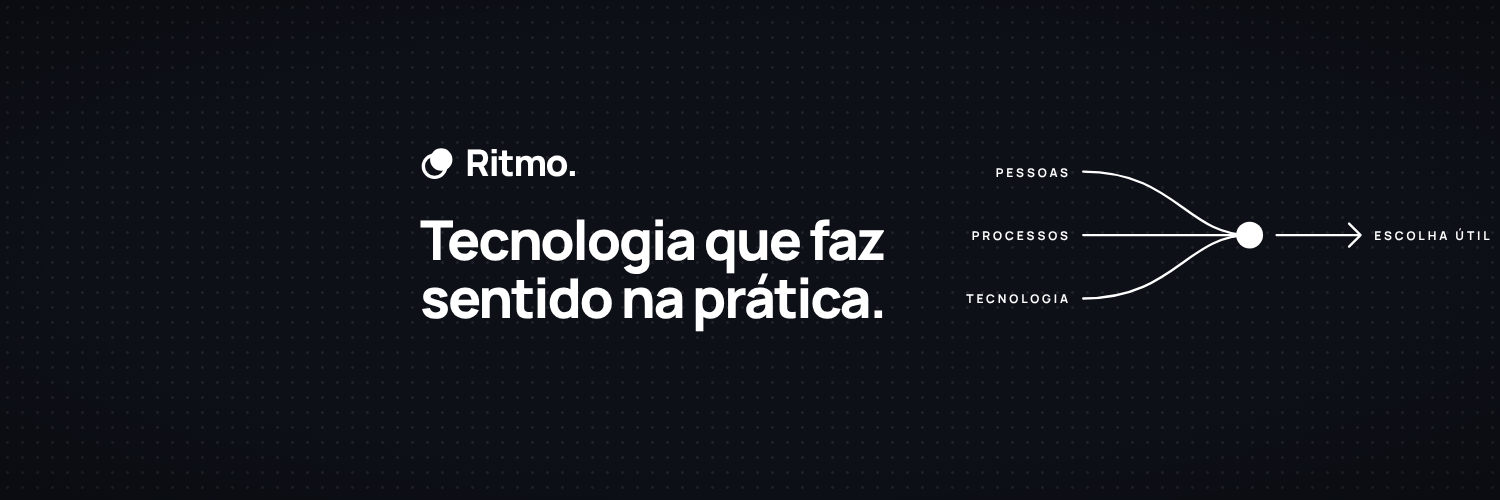
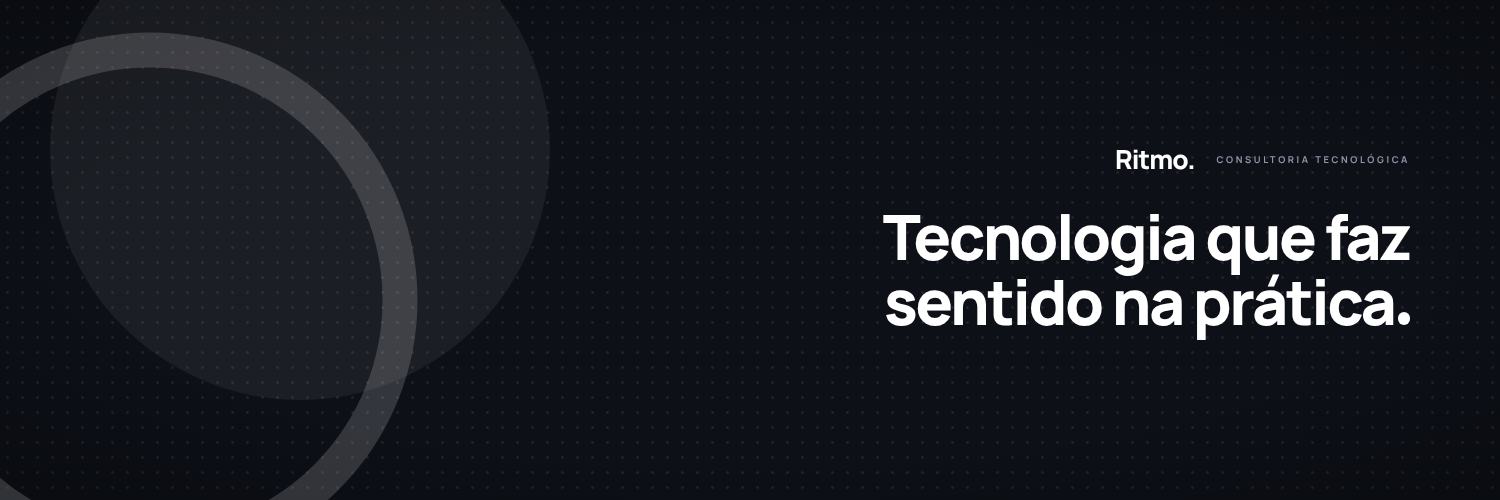
Media kit: use the convergence diagram only on the intro post
Covers now pair the lettering, with the brand ball as its period, and a
large, faint mark bleeding off the opposite side. The intro post keeps the
diagram, redrawn to converge into the mark itself with the output label,
no arrow. The story's line also ends in the ball.

Claude-Session: https://claude.ai/code/session_017RywHH2TMftwe5WR3wrzDC

Changed region(s): [[0.0, 0.06, 1.0, 1.0], [0.644, 0.3, 0.9507, 0.36], [0.0, 0.96, 0.0307, 1.0]]

diff --git a/brand-assets/ritmo/midia-kit/kit.html b/brand-assets/ritmo/midia-kit/kit.html
@@ -7,7 +7,8 @@
   Fonte única das peças do mídia kit. Cada peça é aberta com ?peca=<id> e
   fotografada por build.mjs no tamanho exato da rede. Mesma linguagem do site
   e do filme: fundo navy com grade de pontos (ou papel), marca de dois
-  círculos, Manrope, e o diagrama da convergência do documento de identidade.
+  círculos, Manrope e a bola sólida como ponto final. O diagrama da
+  convergência do documento aparece em uma peça só, o post de apresentação.
 -->
 <style>
   @font-face { font-family: "Manrope"; src: url("../../../video/fonts/manrope-latin-wght-normal.woff2") format("woff2"); font-weight: 200 800;
@@ -41,26 +42,35 @@ const MARK = (fg) => `<svg viewBox="0 0 32 32" width="100%" height="100%" style=
 const mark = (size, fg) => `<div style="width:${size}px;height:${size}px">${MARK(fg)}</div>`;
 const lock = (h, fg, gap = 0.28) => `<div class="row" style="gap:${h * gap}px">${mark(h * 1.05, fg)}<div class="wm" style="font-size:${h * 1.08}px">Ritmo.</div></div>`;
 
-// O diagrama da convergência (página 1 do documento): três entradas, o ponto, a saída.
-function diagram(w, h, fg, { labels = true, out = true, fs = 14 } = {}) {
-  const px = w * (out ? 0.62 : 0.86), py = h / 2, x0 = labels ? w * 0.26 : w * 0.04, dy = h * 0.33;
-  const sw = Math.max(2, h * 0.012);
-  const line = y => `<path d="M${x0} ${y} C ${x0 + (px - x0) * 0.55} ${y}, ${x0 + (px - x0) * 0.62} ${py}, ${px} ${py}" fill="none" stroke="${fg}" stroke-width="${sw}" stroke-linecap="round"/>`;
-  const r = h * 0.07;
-  let svg = `<svg width="${w}" height="${h}" style="overflow:visible;position:absolute;left:0;top:0">` + [-1, 0, 1].map(k => line(py + k * dy)).join("") +
-    `<circle cx="${px}" cy="${py}" r="${r}" fill="${fg}"/>`;
-  if (out) {
-    const a0 = px + r * 2, a1 = w * 0.86, hd = h * 0.06;
-    svg += `<path d="M${a0} ${py} H ${a1} M ${a1 - hd} ${py - hd} L ${a1} ${py} L ${a1 - hd} ${py + hd}" fill="none" stroke="${fg}" stroke-width="${sw}" stroke-linecap="round" stroke-linejoin="round"/>`;
-  }
+// Frase com a bola sólida da marca no lugar do ponto final.
+const sentence = (text, fs, fg) => `<span>${text}</span><span style="display:inline-block;width:${fs * 0.2}px;height:${fs * 0.2}px;border-radius:50%;background:${fg};margin-left:${fs * 0.05}px;vertical-align:baseline"></span>`;
+// O símbolo em escala grande, como grafismo (anel em traço, bola sólida).
+function bigMark(size, x, y, fg, ringAlpha = 0.22, ballAlpha = 1) {
+  return `<svg width="${size}" height="${size}" viewBox="0 0 32 32" style="position:absolute;left:${x}px;top:${y}px;overflow:visible">
+    <circle cx="13" cy="19" r="10" fill="none" stroke="${fg}" stroke-opacity="${ringAlpha}" stroke-width="1.4"/>
+    <circle cx="19" cy="13" r="10" fill="${fg}" fill-opacity="${ballAlpha}"/></svg>`;
+}
+// O diagrama da convergência (página 1 do documento), usado só no post:
+// três entradas com batidas no mesmo tempo, convergindo na própria marca.
+function convergence(w, h, fg) {
+  const lx = w * 0.24, mx = w * 0.7, my = h / 2, dy = h * 0.34, ms = h * 0.34;
+  const sw = Math.max(2.5, h * 0.011);
+  const path = y => `M${lx} ${y} C ${lx + (mx - lx) * 0.5} ${y}, ${lx + (mx - lx) * 0.6} ${my}, ${mx - ms * 0.42} ${my}`;
+  let svg = `<svg width="${w}" height="${h}" style="position:absolute;left:0;top:0;overflow:visible">`;
+  [-1, 0, 1].forEach(k => {
+    const y = my + k * dy;
+    svg += `<path id="cv${k + 1}" d="${path(y)}" fill="none" stroke="${fg}" stroke-opacity="0.85" stroke-width="${sw}" stroke-linecap="round"/>`;
+  });
   svg += `</svg>`;
   let html = `<div style="position:relative;width:${w}px;height:${h}px">${svg}`;
-  if (labels) ["Pessoas", "Processos", "Tecnologia"].forEach((t, i) => {
-    html += `<div class="lbl" style="font-size:${fs}px;right:${w - x0 + fs}px;top:${py + (i - 1) * dy}px;transform:translateY(-50%);color:${fg}">${t}</div>`;
+  ["Pessoas", "Processos", "Tecnologia"].forEach((t, i) => {
+    html += `<div class="lbl" style="font-size:${h * 0.075}px;left:0;top:${my + (i - 1) * dy}px;transform:translateY(-50%);color:${fg}">${t}</div>`;
   });
-  if (out) html += `<div class="lbl" style="font-size:${fs}px;left:${w * 0.89}px;top:${py}px;transform:translateY(-50%);color:${fg}">Escolha útil</div>`;
+  html += `<div style="position:absolute;left:${mx - ms * 0.5}px;top:${my - ms * 0.5}px;width:${ms}px;height:${ms}px">${MARK(fg)}</div>`;
+  html += `<div style="position:absolute;left:${mx + ms * 0.62}px;top:${my}px;transform:translateY(-50%)"><div class="lbl" style="position:static;font-size:${h * 0.075}px;color:${fg}">Escolha útil</div><div style="margin-top:${h * 0.03}px;font-size:${h * 0.085}px;font-weight:600;color:${fg};opacity:0.7;white-space:nowrap">para a rotina real</div></div>`;
   return html + `</div>`;
 }
+function beats(svgId) { return svgId; }
 
 const PIECES = {
   // Fotos de perfil: conteúdo dentro do círculo inscrito.
@@ -71,37 +81,37 @@ const PIECES = {
 
   // Capas. LinkedIn e X: o avatar cobre o canto inferior esquerdo, então o
   // conteúdo fica à direita e no alto.
-  "capa-linkedin": [1584, 396, "dark", (W, H) => cover(W, H, { left: W * 0.3, right: W * 0.05, top: H * 0.16, bottom: H * 0.16, fs: H * 0.135 })],
-  "capa-x": [1500, 500, "dark", (W, H) => cover(W, H, { left: W * 0.28, right: W * 0.05, top: H * 0.16, bottom: H * 0.22, fs: H * 0.11 })],
+  "capa-linkedin": [1584, 396, "dark", (W, H) => cover(W, H, { side: "right", box: [W * 0.36, H * 0.16, W * 0.06, H * 0.16], fs: H * 0.15, mark: [H * 1.7, -H * 0.38, -H * 0.42] })],
+  "capa-x": [1500, 500, "dark", (W, H) => cover(W, H, { side: "right", box: [W * 0.34, H * 0.16, W * 0.06, H * 0.2], fs: H * 0.125, mark: [H * 1.6, -H * 0.35, -H * 0.35] })],
   // Facebook: área segura no centro (o celular corta as laterais).
-  "capa-facebook": [1640, 624, "dark", (W, H) => cover(W, H, { left: W * 0.12, right: W * 0.12, top: H * 0.2, bottom: H * 0.2, fs: H * 0.1 })],
+  "capa-facebook": [1640, 624, "dark", (W, H) => cover(W, H, { side: "left", box: [W * 0.14, H * 0.2, W * 0.4, H * 0.2], fs: H * 0.11, mark: [H * 1.25, W - H * 0.95, H * 0.02] })],
   // YouTube: tudo dentro da área segura de 1546x423 no centro.
-  "capa-youtube": [2560, 1440, "dark", (W, H) => cover(W, H, { left: (W - 1546) / 2 + 30, right: (W - 1546) / 2 + 30, top: (H - 423) / 2 + 10, bottom: (H - 423) / 2 + 10, fs: 72 })],
+  "capa-youtube": [2560, 1440, "dark", (W, H) => cover(W, H, { side: "left", box: [(W - 1546) / 2 + 20, (H - 423) / 2, (W - 1546) / 2 + 560, (H - 423) / 2], fs: 84, mark: [H * 0.62, (W + 1546) / 2 - H * 0.5, (H - H * 0.62) / 2] })],
 
   // Instagram
   "instagram-post": [1080, 1350, "dark", (W, H) => `
     <div style="position:absolute;left:${W * 0.09}px;top:${H * 0.09}px" class="eb" >${"Consultoria tecnológica"}</div>
-    <div class="lt" style="position:absolute;left:${W * 0.09}px;right:${W * 0.09}px;top:${H * 0.2}px;font-size:${W * 0.125}px">Cada empresa tem uma cadência.</div>
-    <div style="position:absolute;left:${W * 0.09}px;top:${H * 0.62}px">${diagram(W * 0.66, H * 0.2, "#fff", { fs: 22 })}</div>
+    <div class="lt" style="position:absolute;left:${W * 0.09}px;right:${W * 0.09}px;top:${H * 0.17}px;font-size:${W * 0.125}px">${sentence("Cada empresa tem uma cadência", W * 0.125, "#fff")}</div>
+    <div style="position:absolute;left:${W * 0.09}px;top:${H * 0.58}px">${convergence(W * 0.82, H * 0.24, "#fff")}</div>
     <div style="position:absolute;left:${W * 0.09}px;bottom:${H * 0.08}px">${lock(W * 0.06, "#fff")}</div>`],
   "instagram-story": [1080, 1920, "dark", (W, H) => `
     <div class="c" style="left:0;right:0;top:${H * 0.2}px;gap:${W * 0.05}px">${mark(W * 0.28, "#fff")}<div class="wm" style="font-size:${W * 0.17}px">Ritmo.</div><div class="eb" style="font-size:${W * 0.026}px">Consultoria tecnológica</div></div>
-    <div class="lt" style="position:absolute;left:${W * 0.1}px;right:${W * 0.1}px;top:${H * 0.56}px;text-align:center;font-size:${W * 0.075}px">Tecnologia que faz sentido na prática.</div>
+    <div class="lt" style="position:absolute;left:${W * 0.1}px;right:${W * 0.1}px;top:${H * 0.56}px;text-align:center;font-size:${W * 0.075}px">${sentence("Tecnologia que faz sentido na prática", W * 0.075, "#fff")}</div>
     <div class="c" style="left:0;right:0;bottom:${H * 0.12}px;gap:${W * 0.03}px"><div class="pill" style="font-size:${W * 0.042}px;padding:${W * 0.03}px ${W * 0.07}px">Fale conosco</div><div style="font-size:${W * 0.045}px;font-weight:700">+55 62 9850-6450</div></div>`],
   "destaque-ritmo": [1080, 1920, "dark", (W, H) => `<div class="c" style="inset:0">${mark(W * 0.36, "#fff")}</div>`],
   "destaque-metodo": [1080, 1920, "dark", (W, H) => `<div class="c" style="inset:0">${iconMetodo(W * 0.5)}</div>`],
   "destaque-contato": [1080, 1920, "dark", (W, H) => `<div class="c" style="inset:0">${iconContato(W * 0.42)}</div>`],
 };
 
-function cover(W, H, { left, right, top, bottom, fs }) {
-  const iw = W - left - right, ih = H - top - bottom;
-  const dw = iw * 0.46, dh = ih * 0.62;
-  return `<div style="position:absolute;left:${left}px;top:${top}px;width:${iw}px;height:${ih}px;display:flex;align-items:center;justify-content:space-between;gap:${iw * 0.04}px">
-      <div style="display:flex;flex-direction:column;gap:${fs * 0.55}px">
-        ${lock(fs * 0.62, "#fff")}
-        <div class="lt" style="font-size:${fs}px;max-width:${iw * 0.5}px">Tecnologia que faz sentido na prática.</div>
-      </div>
-      <div style="flex:none">${diagram(dw, dh, "#fff", { fs: Math.max(12, fs * 0.2) })}</div>
+// Capa: frase com a bola como ponto final, a assinatura pequena acima e o
+// símbolo grande sangrando da peça do lado oposto ao texto.
+function cover(W, H, { side, box: [l, t, r, b], fs, mark: [ms, mx, my] }) {
+  const iw = W - l - r, ih = H - t - b;
+  const align = side === "right" ? "flex-end" : "flex-start";
+  return bigMark(ms, mx, my, "#fff", 0.16, 0.06) + `
+    <div style="position:absolute;left:${l}px;top:${t}px;width:${iw}px;height:${ih}px;display:flex;flex-direction:column;justify-content:center;align-items:${align};text-align:${side};gap:${fs * 0.5}px">
+      <div class="row" style="gap:${fs * 0.35}px"><div class="wm" style="font-size:${fs * 0.42}px">Ritmo.</div><div class="eb" style="font-size:${fs * 0.15}px">Consultoria tecnológica</div></div>
+      <div class="lt" style="font-size:${fs}px;max-width:${iw}px">${sentence("Tecnologia que faz<br>sentido na prática", fs, "#fff")}</div>
     </div>`;
 }
 function iconMetodo(s) {

diff --git a/brand-assets/ritmo/midia-kit/LEIA-ME.md b/brand-assets/ritmo/midia-kit/LEIA-ME.md
@@ -2,7 +2,8 @@
 
 Peças prontas em `pecas/`, geradas de `kit.html` por `build.mjs`
 (`node brand-assets/ritmo/midia-kit/build.mjs`). Mesmo símbolo de dois
-círculos, Manrope e o diagrama da convergência do documento de identidade.
+círculos, Manrope e a bola sólida como ponto final. O diagrama da
+convergência do documento aparece em uma peça só, o post de apresentação.
 
 ## Fotos de perfil (1080 x 1080)
 
@@ -20,7 +21,7 @@ de todas as redes.
 
 | Arquivo | Tamanho | Observação |
 | --- | --- | --- |
-| `ritmo-capa-linkedin.png` | 1584 x 396 | conteúdo à direita, livre do avatar no canto inferior esquerdo |
+| `ritmo-capa-linkedin.png` | 1584 x 396 | frase à direita, livre do avatar; o símbolo grande fica atrás dele |
 | `ritmo-capa-x.png` | 1500 x 500 | idem |
 | `ritmo-capa-facebook.png` | 1640 x 624 | conteúdo na área central, que o celular não corta |
 | `ritmo-capa-youtube.png` | 2560 x 1440 | conteúdo dentro da área segura de 1546 x 423 |
